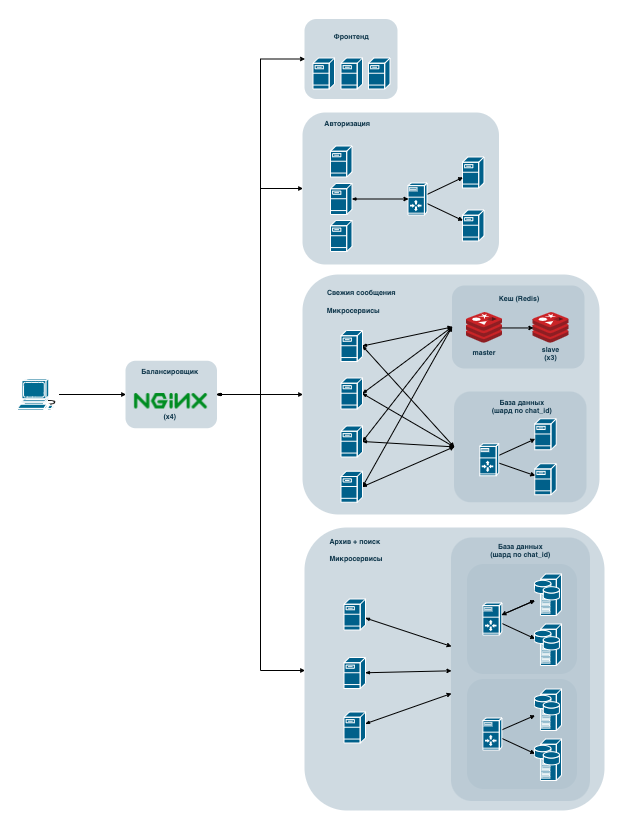
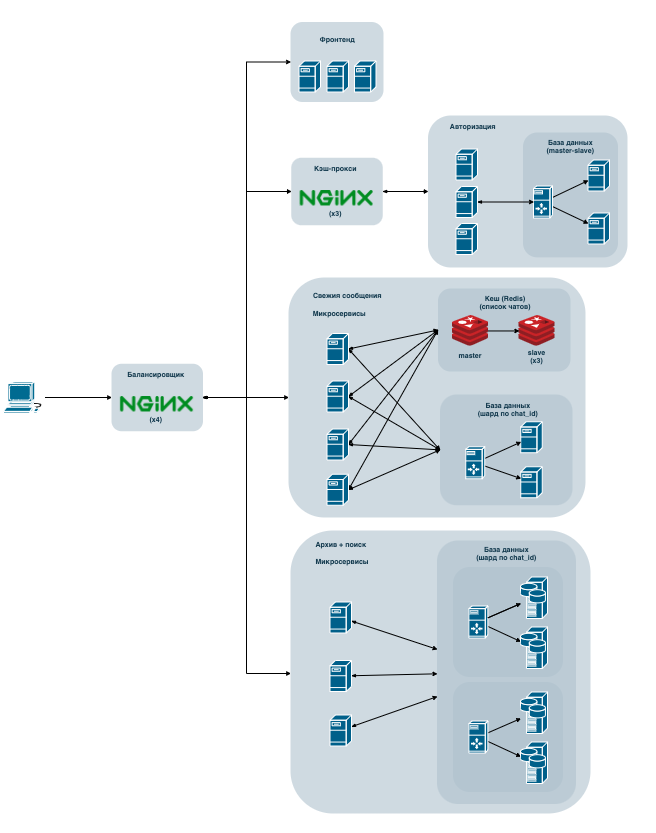
Add cache-proxy

Changed region(s): [[0.1527, 0.0, 0.9775, 0.9964], [0.0, 0.4529, 0.0916, 0.5133]]

diff --git a/HW3/README.md b/HW3/README.md
@@ -110,6 +110,7 @@
 Объём памяти: 42 * 10^9 * 288байт = 12ТБ
 ```
 "Старые" данные весят столько же, поэтому каждый месяц их будет генерироваться по 50ТБ.
+
 #### Микросервис (на примере авторизации)
 На микросервис авторизации будут приходить запросы только в случае уникального пользователя, либо при истечении срока давности сессии (простой в 7 дней). Расчёт нагрузки:
 1. 10 процентов пользователей заходят реже, чем раз в неделю (5.4млн). `5.4млн / (7 * 24 * 60 * 60) = 9RPS`
@@ -121,6 +122,9 @@
 
 > Для всех микросервисов расчёт одинаковый
 
+#### Кеш-прокси (для авторизации)
+Для снятия нагрузки с микросервиса авторизации поставим перед ним кеш прокси NGINX. Тогда микросервис авторизации будет работать только при отсутствии сессии в кеше. Количество машин для кеша поставим столько же, сколько и на балансировщике входного трафика, чтобы избежать бутылочного горлышка.
+
 #### Фронтенд
 Фронтенд будет максимально лёгким (до 5МБ) и для нашей нагрузки (54млн/день) получаем: `5 * 54млн = 270млн МБ/день = 3125МБ/с`
 #### Балансировщик
@@ -129,9 +133,10 @@
 ### Подбор оборудования
 |                          | CPU(cores) | RAM(GB) | SSD(TB) | Количество  |
 |--------------------------|------------|---------|---------|-------------|
-| Nginx                    | 8          | 32      | 0.512   | 10          |
+| Nginx                    | 8          | 32      | 0.512   | 4           |
 | Фронтенд                 | 16         | 64      | 0.512   | 3           |
 | Redis                    | 8          | 64      | 1       | 4           |
+| Кеш-прокси    		   | 8          | 32      | 0.512   | 4           |
 | Авторизация (микро)      | 8          | 32      | 0.512   | 3           |
 | Архив + поиск (микро)    | 8          | 32      | 0.512   | 3           |
 | Свежие сообщения (микро) | 32         | 128     | 1       | 25          |
